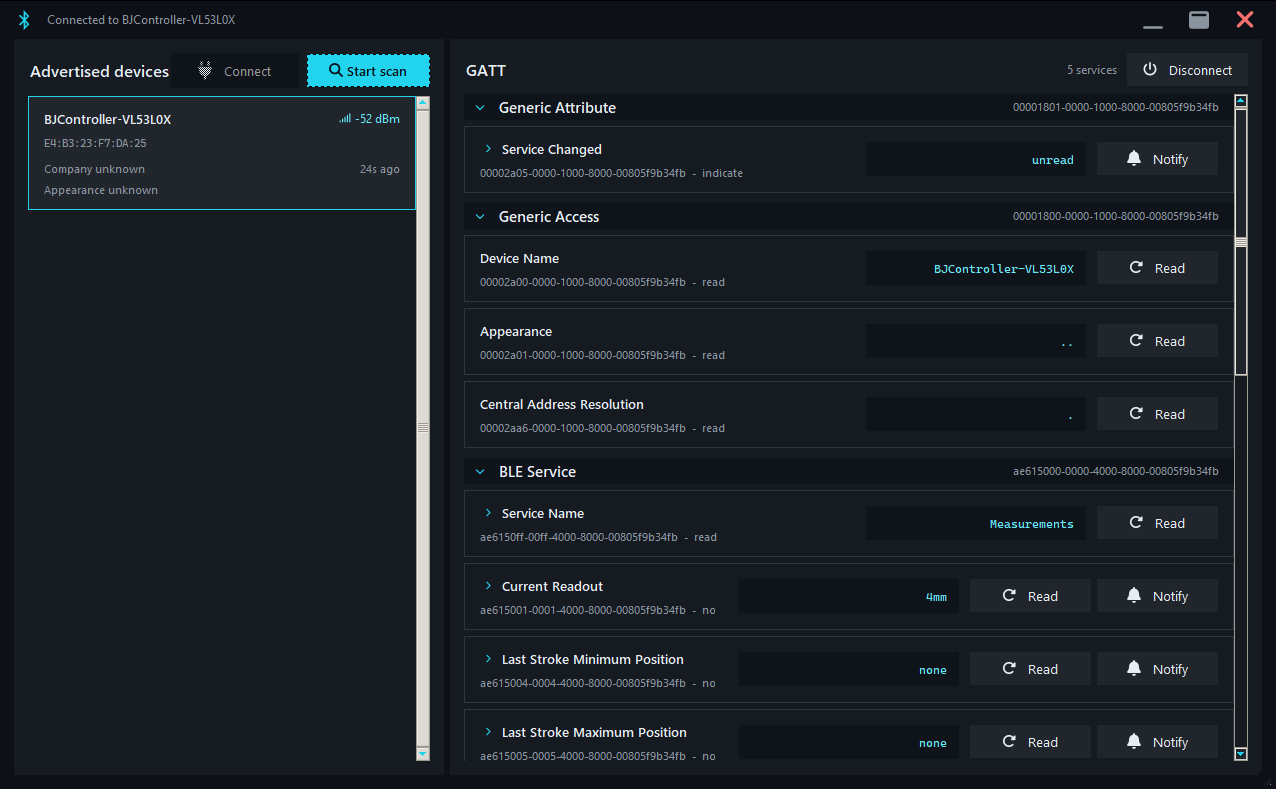
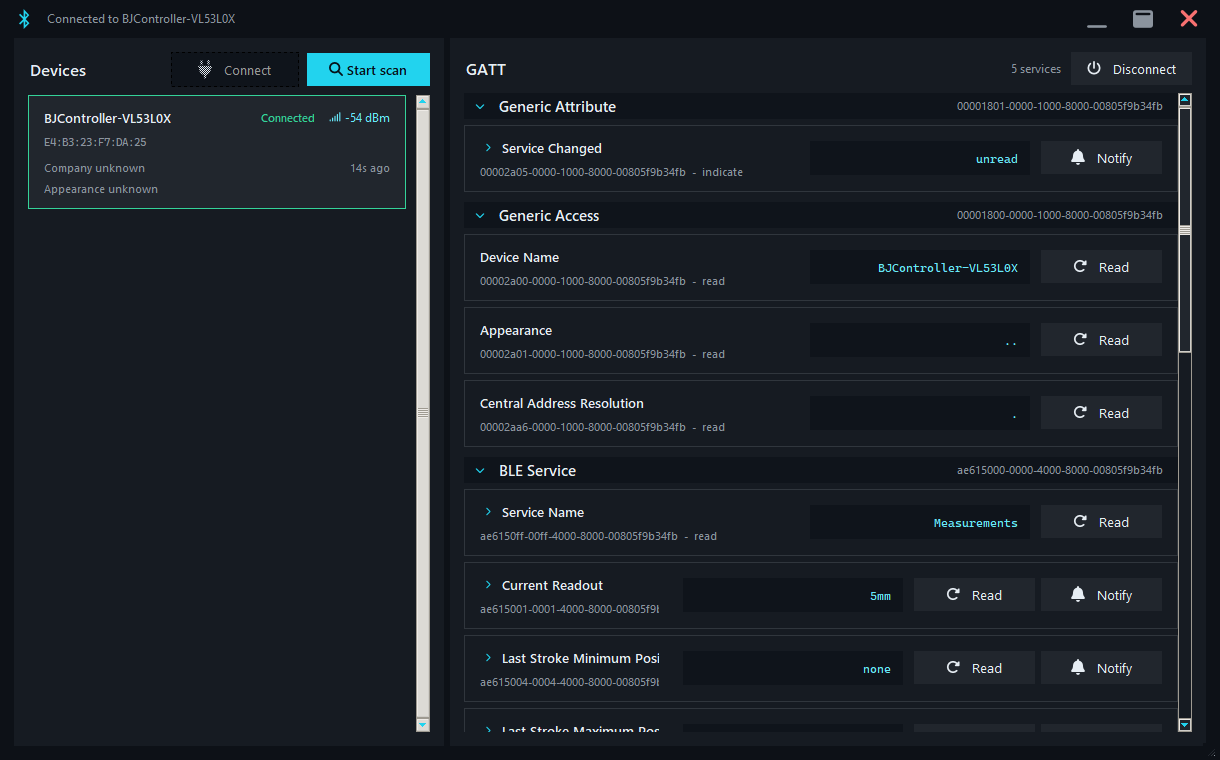
Final UI touches

diff --git a/ui/panels/devices/panel.py b/ui/panels/devices/panel.py
@@ -14,6 +14,8 @@ from ui.panels.devices.header import build_devices_header
 from ui.resize_visibility import handle_canvas_resize
 from ui.scrolling import bind_canvas_mousewheel
 
+DEVICE_SCROLL_GUTTER = 10
+
 
 def build_devices_panel(app: tk.Tk, parent: ttk.Frame) -> None:
     build_devices_header(app, parent)
@@ -26,20 +28,22 @@ def build_devices_panel(app: tk.Tk, parent: ttk.Frame) -> None:
     app.device_frame = ttk.Frame(app.device_canvas, style="Panel.TFrame")
     app.device_canvas_window = app.device_canvas.create_window((0, 0), window=app.device_frame, anchor="nw")
     app.device_frame.bind("<Configure>", lambda _: app.device_canvas.configure(scrollregion=app.device_canvas.bbox("all")))
-    app.device_canvas.bind("<Configure>", lambda event: handle_canvas_resize(app, app.device_canvas, app.device_canvas_window, event.width))
+    app.device_canvas.bind(
+        "<Configure>",
+        lambda event: handle_canvas_resize(
+            app,
+            app.device_canvas,
+            app.device_canvas_window,
+            max(1, event.width - DEVICE_SCROLL_GUTTER),
+        ),
+    )
     bind_canvas_mousewheel(app.device_canvas)
 
 
 def select_device(app: tk.Tk, address: str) -> None:
     app.selected_address = address
     app.connect_button.configure(state="normal")
-    for card_address, widgets in app.device_cards.items():
-        selected = card_address == address
-        bg = COLORS["panel_3"] if selected else COLORS["panel_2"]
-        border = COLORS["accent"] if selected else COLORS["line"]
-        widgets["frame"].configure(bg=bg, highlightbackground=border)
-        for widget in widgets.get("background_widgets", []):
-            widget.configure(bg=bg)
+    refresh_device_card_states(app)
 
 
 def upsert_device(app: tk.Tk, record: DiscoveredDevice) -> None:
@@ -47,6 +51,7 @@ def upsert_device(app: tk.Tk, record: DiscoveredDevice) -> None:
     if record.address not in app.device_cards:
         app.device_cards[record.address] = create_device_card(app, record.address)
     update_device_card(app, app.device_cards[record.address], record, format_elapsed(time.time() - record.last_seen))
+    apply_device_card_state(app, record.address, app.device_cards[record.address])
 
 
 def tick_elapsed(app: tk.Tk) -> None:
@@ -56,3 +61,23 @@ def tick_elapsed(app: tk.Tk) -> None:
         if widgets:
             widgets["last"].configure(text=format_elapsed(now - record.last_seen))
     app.after(1000, app._tick_elapsed)
+
+
+def refresh_device_card_states(app: tk.Tk) -> None:
+    for address, widgets in app.device_cards.items():
+        apply_device_card_state(app, address, widgets)
+
+
+def apply_device_card_state(app: tk.Tk, address: str, widgets: dict[str, Any]) -> None:
+    selected = address == app.selected_address
+    connected = address == app.connected_address
+    bg = COLORS["panel_3"] if selected or connected else COLORS["panel_2"]
+    border = COLORS["success"] if connected else COLORS["accent"] if selected else COLORS["line"]
+
+    widgets["frame"].configure(bg=bg, highlightbackground=border)
+    for widget in widgets.get("background_widgets", []):
+        widget.configure(bg=bg)
+    if connected:
+        widgets["connected"].grid()
+    else:
+        widgets["connected"].grid_remove()

diff --git a/main.py b/main.py
@@ -13,7 +13,7 @@ from models import CharacteristicModel, DescriptorModel, DiscoveredDevice, Servi
 from ui.dialogs.write_dialog import WriteDialog
 from ui.main.header import build_main_header
 from ui.main.resize_grip import build_resize_grip
-from ui.panels.devices.panel import build_devices_panel, select_device, tick_elapsed, upsert_device
+from ui.panels.devices.panel import build_devices_panel, refresh_device_card_states, select_device, tick_elapsed, upsert_device
 from ui.panels.gatt.panel import build_gatt_panel, clear_gatt, render_service, render_services
 
 
@@ -38,6 +38,8 @@ class BleDebuggerApp(tk.Tk):
         self.scan_running = False
         self.connected = False
         self.selected_address: str | None = None
+        self.connecting_address: str | None = None
+        self.connected_address: str | None = None
         self._normal_geometry = ""
         self._is_maximized = False
         self._drag_start_x = 0
@@ -145,6 +147,7 @@ class BleDebuggerApp(tk.Tk):
         if not self.selected_address:
             return
         self.connect_button.configure(state="disabled")
+        self.connecting_address = self.selected_address
         self.bridge.connect(self.selected_address)
 
     def _connect_device_card(self, address: str) -> None:
@@ -179,7 +182,10 @@ class BleDebuggerApp(tk.Tk):
             self._set_status(str(payload))
         elif event == "services":
             self.connected = True
+            self.connected_address = self.connecting_address or self.selected_address
+            self.connecting_address = None
             self.disconnect_button.configure(state="normal")
+            refresh_device_card_states(self)
             self._render_services(payload)
         elif event == "characteristic_value":
             handle, data = payload
@@ -194,7 +200,11 @@ class BleDebuggerApp(tk.Tk):
             self._set_status(str(payload))
         elif event == "disconnected":
             self.connected = False
+            self.connected_address = None
+            self.connecting_address = None
             self.disconnect_button.configure(state="disabled")
+            self.connect_button.configure(state="normal" if self.selected_address else "disabled")
+            refresh_device_card_states(self)
             self._set_status("Disconnected")
         elif event == "error":
             self._set_status(f"Error: {payload}")

diff --git a/ui/panels/devices/device_card.py b/ui/panels/devices/device_card.py
@@ -22,8 +22,11 @@ def create_device_card(app: tk.Tk, address: str) -> dict[str, Any]:
     top.columnconfigure(0, weight=1)
     name = tk.Label(top, text="", bg=COLORS["panel_2"], fg=COLORS["text"], font=("Segoe UI Semibold", 10), anchor="w")
     name.grid(row=0, column=0, sticky="ew")
+    connected = tk.Label(top, text="Connected", bg=COLORS["panel_2"], fg=COLORS["success"], font=("Segoe UI Semibold", 8), anchor="e")
+    connected.grid(row=0, column=1, sticky="e", padx=(8, 0))
+    connected.grid_remove()
     rssi = tk.Label(top, text="", bg=COLORS["panel_2"], fg=COLORS["accent_2"], font=("Segoe UI", 9), anchor="e")
-    rssi.grid(row=0, column=1, sticky="e", padx=(8, 0))
+    rssi.grid(row=0, column=2, sticky="e", padx=(8, 0))
 
     address_label = tk.Label(frame, text=address, bg=COLORS["panel_2"], fg=COLORS["muted"], font=("Cascadia Mono", 8), anchor="w")
     address_label.grid(row=1, column=0, sticky="ew", padx=12)
@@ -38,7 +41,7 @@ def create_device_card(app: tk.Tk, address: str) -> dict[str, Any]:
     last = tk.Label(meta, text="", bg=COLORS["panel_2"], fg=COLORS["muted"], font=("Segoe UI", 8), anchor="e")
     last.grid(row=0, column=1, rowspan=2, sticky="ne", padx=(8, 0))
 
-    background_widgets = [top, meta, name, rssi, address_label, company, appearance, last]
+    background_widgets = [top, meta, name, connected, rssi, address_label, company, appearance, last]
     for widget in [frame, *background_widgets]:
         widget.bind("<Button-1>", lambda _event, selected=address: app._select_device(selected))
         widget.bind("<Double-Button-1>", lambda _event, selected=address: app._connect_device_card(selected))
@@ -49,6 +52,7 @@ def create_device_card(app: tk.Tk, address: str) -> dict[str, Any]:
         "address": address_label,
         "last": last,
         "rssi": rssi,
+        "connected": connected,
         "company": company,
         "appearance": appearance,
         "background_widgets": background_widgets,

diff --git a/ui/panels/devices/header.py b/ui/panels/devices/header.py
@@ -10,7 +10,7 @@ from ui.icons import configure_icon_button
 def build_devices_header(app: tk.Tk, parent: ttk.Frame) -> None:
     header = ttk.Frame(parent, style="Panel.TFrame")
     header.pack(fill="x", padx=14, pady=(14, 8))
-    ttk.Label(header, text="Advertised devices", style="Title.TLabel").pack(side="left")
+    ttk.Label(header, text="Devices", style="Title.TLabel").pack(side="left")
     app.scan_button = ttk.Button(header, text="Start scan", command=app._toggle_scan, style="Accent.TButton")
     configure_icon_button(app, app.scan_button, "magnifying-glass", "#061018")
     app.scan_button.pack(side="right", padx=(8, 0))
